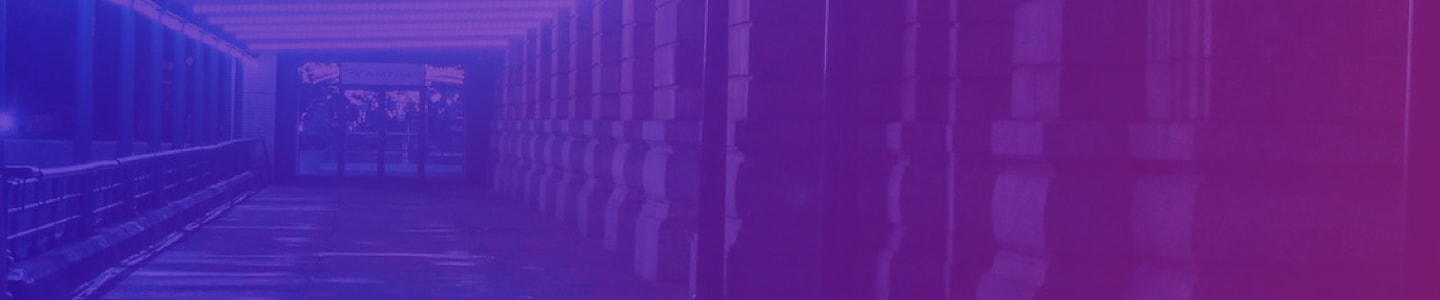
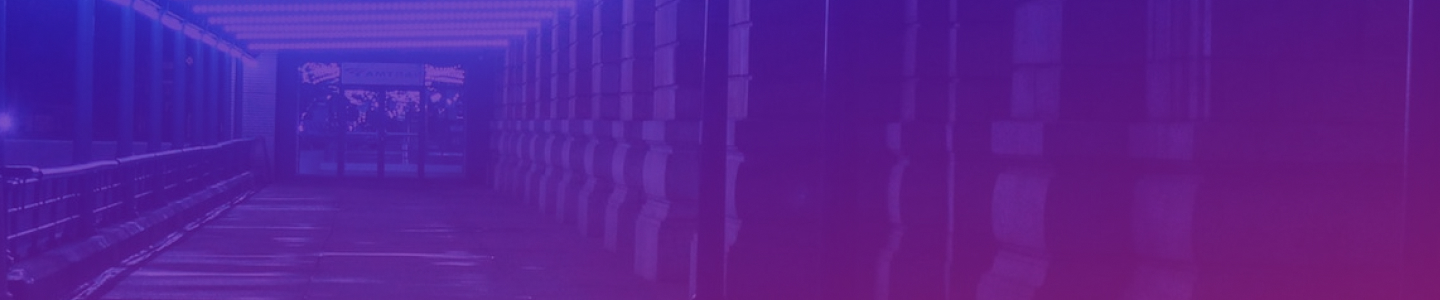
Filters component

Changed region(s): [[0.625, 0.0, 1.0, 0.39], [0.0, 0.63, 0.4062, 1.0]]

diff --git a/src/Components/Filters.jsx b/src/Components/Filters.jsx
@@ -1,0 +1,46 @@
+import React, { useState } from "react";
+
+export default function Filters() {
+  const array = [
+    { id: 1, label: "items left" },
+    { id: 2, label: "All" },
+    { id: 3, label: "Active" },
+    { id: 4, label: "Completed" },
+    { id: 5, label: "Clear Completed" },
+  ];
+  const [isActive, setIsActive] = useState(false);
+  const handleActive = () => {
+    setIsActive(!isActive);
+  };
+  return (
+    <div className="flex row-auto justify-between bg-grey rounded-[10px] px-3 py-2 drop-shadow-xl text-[#4d5067]">
+      <div>
+        <span className="cursor-pointer hover:text-white"> items left </span>
+      </div>
+
+      <div>
+        <span
+          onClick={handleActive}
+          className={` cursor-pointer  hover:text-white  ${
+            isActive ? "text-brightblue" : ""
+          }`}
+        >
+          All{" "}
+        </span>
+        <span className="cursor-pointer px-1 hover:text-white ">Active </span>
+        <span className="cursor-pointer px-1 hover:text-white">Completed </span>
+      </div>
+
+      <div>
+        <span
+          onClick={handleActive}
+          className={` cursor-pointer  hover:text-white  ${
+            isActive ? "text-brightblue" : ""
+          }`}
+        >
+          Clear Complated
+        </span>
+      </div>
+    </div>
+  );
+}

diff --git a/src/App.jsx b/src/App.jsx
@@ -2,13 +2,14 @@ import { useState } from "react";
 import "./App.css";
 import AddTodo from "./Components/AddTodo";
 import TodoList from "./Components/TodoList";
+import Filters from "./Components/Filters";
 
 function App() {
   const [todos, setTodos] = useState([]);
   const [inputValue, setInputValue] = useState("");
 
   return (
-    <main className="bg-hero-pattern bg-no-repeat">
+    <main className="bg-hero-pattern bg-no-repeat bg-center bg-cover ">
       <div className="w-[540px] mx-auto transform translate-y-[80px]">
         <div className="flex justify-between items-center  ">
           <h1 className="text-white text-[40px] font-bold">T O D O</h1>
@@ -20,6 +21,7 @@ function App() {
           setTodos={setTodos}
         />
         <TodoList todos={todos} setTodos={setTodos} />
+        <Filters />
       </div>
     </main>
   );

diff --git a/src/Components/AddTodo.jsx b/src/Components/AddTodo.jsx
@@ -13,7 +13,7 @@ export default function AddTodo({ inputValue, setInputValue, setTodos }) {
     setInputValue("");
   };
   return (
-    <div className=" mt-[50px] relative rounded-[20px] overflow-hidden drop-shadow-xl">
+    <div className=" mt-[50px] relative rounded-[10px] overflow-hidden drop-shadow-xl">
       <input
         className="py-4 pl-10 bg-grey outline-none text-[#4d5067] text-[18px] w-full "
         type="text"

diff --git a/src/Components/TodoList.jsx b/src/Components/TodoList.jsx
@@ -40,7 +40,7 @@ export default function TodoList({ todos, setTodos }) {
   };
 
   return (
-    <ul className="w-full bg-grey mt-[30px] rounded-[20px] text-start pl-4 py-2 drop-shadow-xl">
+    <ul className="w-full bg-grey mt-[30px] rounded-[10px] text-start pl-4 py-2 drop-shadow-xl">
       {todos.map((item) => (
         <li key={item.id} className="py-4 border-b border-gray-700">
           <input

diff --git a/tailwind.config.js b/tailwind.config.js
@@ -6,10 +6,11 @@ export default {
       colors: {
         dark: "#171823",
         grey: "#25273d",
+        brightblue: "hsl(220, 98%, 61%)",
       },
       backgroundImage: {
         "hero-pattern": "url('/bg-desktop-dark.jpg')",
-        // 'footer-texture': "url('/img/footer-texture.png')",
+        // "footer-texture": "url('/img/footer-texture.png')",
       },
     },
   },
